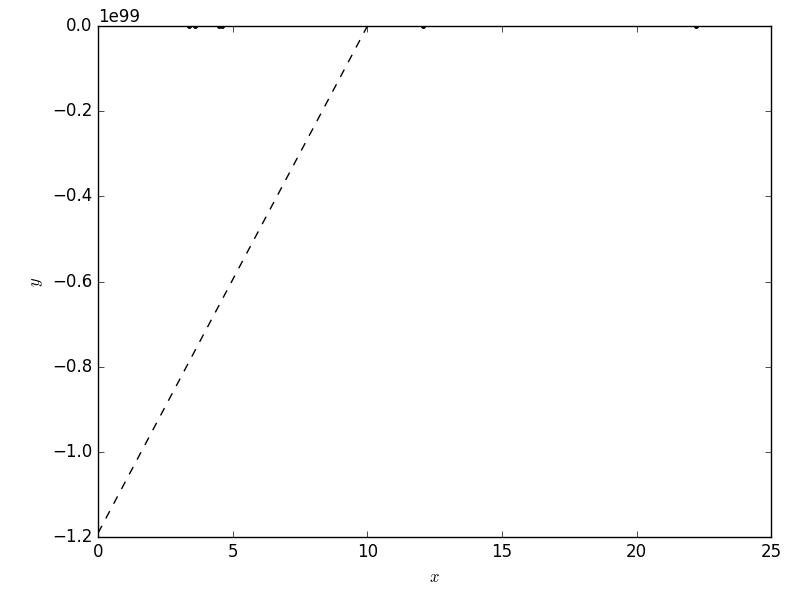
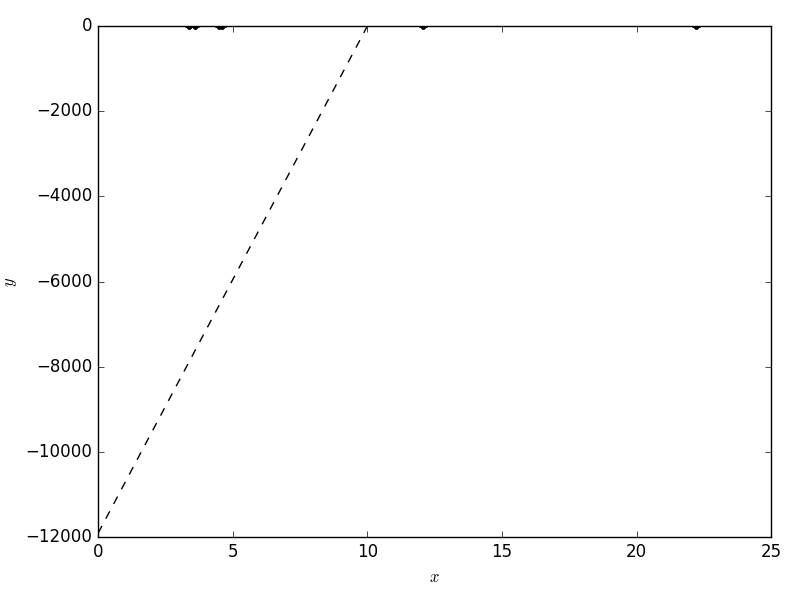
id the core problem: Least square fit identification

diff --git a/line0000.py b/line0000.py
@@ -36,7 +36,7 @@ a = 2*h*(c**2)
 b = (h*c)/k_b
 
 # Plot the dataset and the true model.
-xl = np.array([.00000000000000000000001, 10])
+xl = np.array([.0001, 10])
 pl.errorbar(x, y, yerr=yerr, fmt=".k")
 #pl.plot(xl, m_true*xl+b_true, "k", lw=3, alpha=0.6)
 #pl.ylim(-9, 9)
@@ -51,11 +51,12 @@ C = np.diag(yerr * yerr)
 cov = np.linalg.inv(np.dot(A.T, np.linalg.solve(C, A)))
 T_ls = np.dot(cov, np.dot(A.T, np.linalg.solve(C, y)))
 
-print("""
-""".format(T_ls, np.sqrt(cov[1, 1]), "IDONNOEITHER"))
+print("""Least-squares results:
+    T = {0} ± {1} (truth: {2})
+""".format(T_ls[0], np.sqrt(cov[1, 1]), "IDONNOEITHER"))
 # Plot the least-squares result.
-print((a/xl**5)*(1/((np.exp(b/(xl*T_ls))-1))),"this is xl")
-pl.plot(xl, (a/xl**5)*(1/((np.exp(b/(xl*T_ls))-1))), "--k")
+#print((a/xl**5)*(1/((np.exp(b/(xl*T_ls))-1))),"this is it")
+pl.plot(xl, (a/xl**5)*(1/((np.exp(b/(xl*T_ls[0]))-1))), "--k")
 pl.savefig("line-least-squares.png")
 
 # Define the probability function as likelihood * prior.
@@ -131,8 +132,8 @@ fig.savefig("line-triangle.png")
 
 # Plot some samples onto the data.
 pl.figure()
-for m, b, lnf in samples[np.random.randint(len(samples), size=100)]:
-    pl.plot(xl, m*xl+b, color="k", alpha=0.1)
+for a, T_ls, lnf in samples[np.random.randint(len(samples), size=100)]:
+    pl.plot(xl, (a/xl**5)*(1/((np.exp(b/(xl*T_ls[0]))-1))), color="k", alpha=0.1)
 pl.plot(xl, m_true*xl+b_true, color="r", lw=2, alpha=0.8)
 pl.errorbar(x, y, yerr=yerr, fmt=".k")
 pl.xlabel("$x$")

diff --git a/line.py b/line.py
@@ -53,7 +53,6 @@ pl.savefig("line-data.png")
 
 # Do the least-squares fit and compute the uncertainties.
 A = np.vstack((np.ones_like(x), x)).T
-
 C = np.diag(yerr * yerr)
 cov = np.linalg.inv(np.dot(A.T, np.linalg.solve(C, A)))
 b_ls, m_ls = np.dot(cov, np.dot(A.T, np.linalg.solve(C, y)))
